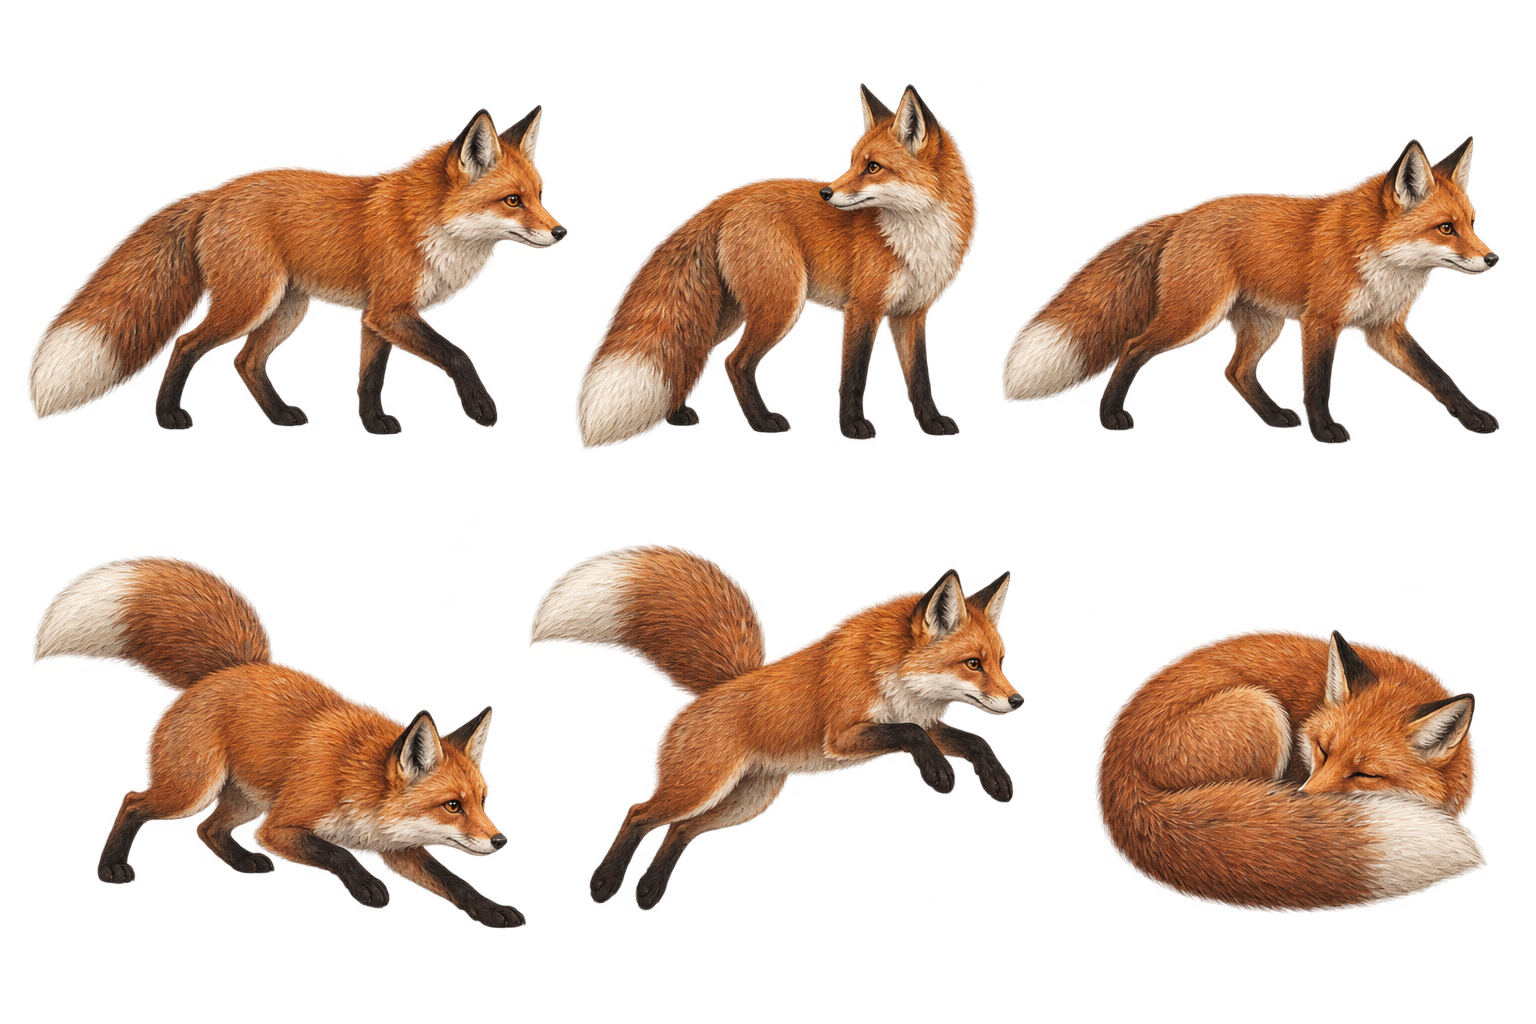
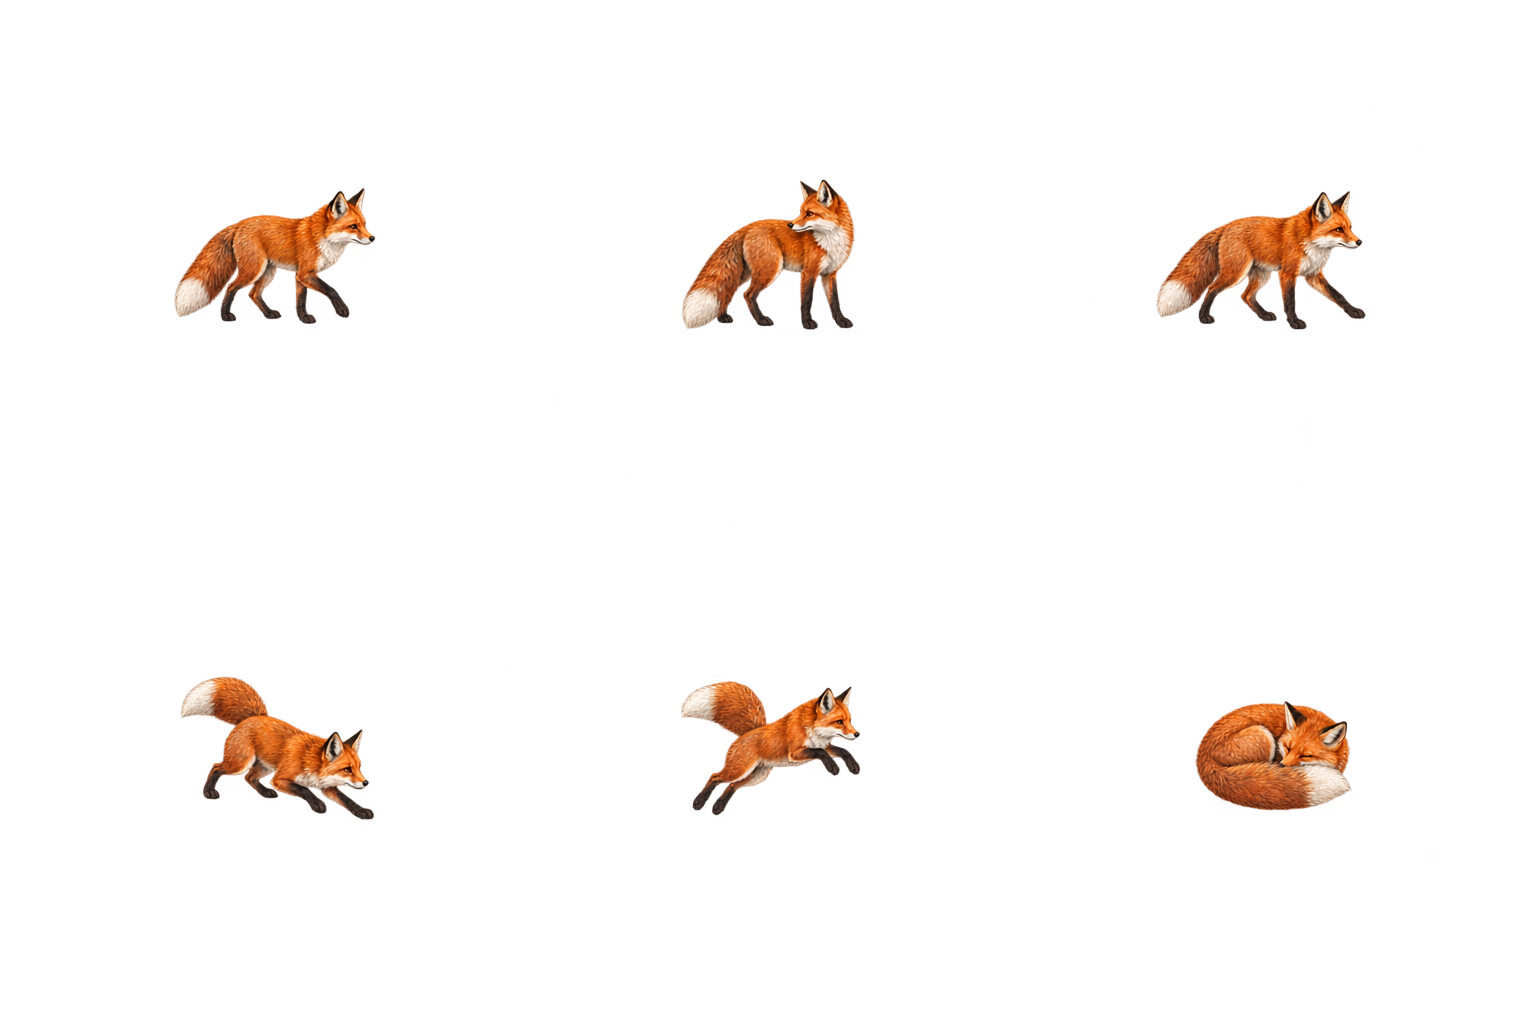
Fix illustrated pose margins and guard sprite boundaries

diff --git a/Sources/WorkspaceTests.swift b/Sources/WorkspaceTests.swift
@@ -41,6 +41,16 @@ import SwiftUI
     for animal in Companion.animals {
         let frames = CompanionArtwork.frames(animal)
         precondition(frames.count == 6 && frames.allSatisfy { $0.size == NSSize(width:512,height:512) }, "Missing or malformed companion sheet: \(animal)")
+        for frame in frames {
+            let bitmap = NSBitmapImageRep(cgImage:frame.cgImage(forProposedRect:nil,context:nil,hints:nil)!)
+            var borderInk = 0
+            for i in 0..<512 {
+                for (x,y) in [(i,0),(i,511),(0,i),(511,i)] {
+                    if (bitmap.colorAt(x:x,y:y)?.alphaComponent ?? 0) > 0.4 { borderInk += 1 }
+                }
+            }
+            precondition(borderInk < 16, "Companion pose crosses a sprite boundary: \(animal)")
+        }
         let poses = stride(from:0.0,to:18.0,by:0.1).map { CompanionPose.at($0,animal:animal,resting:false,reduceMotion:false) }
         precondition(Set(poses.map(\.frame)).count == 5 && poses.allSatisfy { (0..<5).contains($0.frame) })
         precondition(CompanionPose.at(3,animal:animal,resting:true,reduceMotion:false).frame == 5)

diff --git a/Sources/NativeTests.swift b/Sources/NativeTests.swift
@@ -60,7 +60,7 @@ import SwiftUI
                 Text(animal).font(.title2.bold())
                 ForEach(0..<2) { row in
                     HStack { ForEach(0..<3) { col in
-                        Image(nsImage:frames[row*3+col]).resizable().scaledToFit().frame(width:160,height:160)
+                        Image(nsImage:frames[row*3+col]).resizable().scaledToFit().frame(width:160,height:160).scaleEffect(animal == "Fox" ? 2 : 1)
                     } }
                 }
             }.padding(18).background(animal == "Black cat" ? Color(white:0.85) : Color(white:0.12)).foregroundStyle(.orange))

diff --git a/Sources/Companion.swift b/Sources/Companion.swift
@@ -105,6 +105,8 @@ struct CatPortrait: View {
                 if frames.indices.contains(pose.frame) {
                     Image(nsImage:frames[pose.frame]).resizable().interpolation(.high).scaledToFit()
                         .padding(geometry.size.height*0.065)
+                        // Fox uses extra transparent gutters; normalize its on-screen size.
+                        .scaleEffect(animal == "Fox" ? 2 : 1)
                         .scaleEffect(x:1,y:pose.breath,anchor:.bottom)
                         .offset(x:geometry.size.width*pose.x,y:geometry.size.height*pose.y)
                 }

diff --git a/docs/VALIDATION.md b/docs/VALIDATION.md
@@ -1,5 +1,11 @@
 # WaveDock validation
 
+## Version 0.8 coverage
+
+The page-drag timer covers initial dwell, stationary repeat, reverse direction, leaving an arrow, cancellation and first/last-page bounds. The stable Dock owns the gesture while tile views change. Live QA performed two rounds moving Chrome and the companion forward and backward by dropping on arrows (eight successful drags). All nine animal choices were selected twice; rest/wake was exercised twice. The computer-use drag API releases immediately at the destination, so a sustained physical hover-and-hold is not claimed as manually verified. Its timing is covered by production-state tests.
+
+All nine bundled six-pose sheets are checked for dimensions, sprite-boundary bleed, valid frame sequences and Reduce Motion. Native captures render all poses on contrasting backgrounds as well as every widget. The full local suite runs twice, and CI builds and tests independently twice. The final PR records exact-commit results.
+
 ## Version 0.7 coverage
 
 Regression tests add all edge and corner snap zones on negative-coordinate screens, edge dwell/cancellation, per-edge window reservations, small custom Dock widths, theme persistence, companion needs/levels and exactly-once focus rewards, and artwork source/format validation. Native tests exercise four independent Dock models, separate content/themes, screen containment, session/sleep suppression, removal, and all 39 functional widget views. Live Accessibility acceptance depends on macOS granting this rebuilt app access; offline geometry tests are not proof of a live gesture.

diff --git a/Assets/Companions/README.md b/Assets/Companions/README.md
@@ -57,3 +57,9 @@ POSES: crouch before hop, airborne gentle hop forelegs forward, land forepaws, s
 SUBJECT: an elegant red fox with detailed russet coat, black stockings, cream chest, pointed ears, bushy white tipped tail and bright eyes
 
 POSES: prowl left forepaw, stand looking curiously back, prowl right forepaw, crouch ready to pounce, leap with tail balancing, curl asleep nose under tail
+
+## Layout repair pass
+
+The built-in generator edited sheets with tight margins, preserving the original animal and six poses. Prompt: Keep the 1536x1024 canvas and 3 by 2 layout. Shrink every complete animal to the central 350x350 pixels of its own 512x512 cell, with at least 81 pixels of transparent padding on all sides. No tails, ears, paws, wings or horns may touch a cell boundary. Keep all six poses including the sleeping sixth pose, detailed illustrated style and true alpha. No grid lines, pads, floor, shadows, backdrop, text or new objects. Four initial repairs requested 55-pixel padding at 75 percent scale; the same preservation constraints applied.
+
+The Fox sheet received a final repair: halve each pose to a 250-pixel maximum and center the six animals at the six cell centers. The renderer scales this padded sheet 2× to match the visible size of the other companions.
